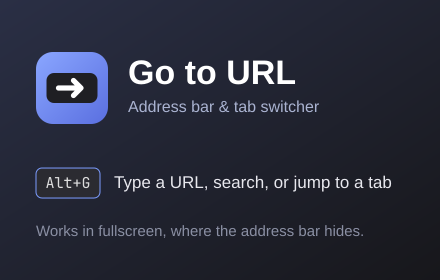
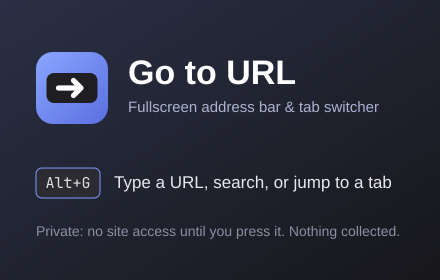
Store listing: new title, Ogilvy-style description and summary
Title is now "Go to URL: Fullscreen Address Bar & Tab Switcher". The description
lives in store/description.txt as plain text, ready to paste. The promo tile
carries the new subtitle and the privacy point.

Changed region(s): [[0.0886, 0.8, 0.9159, 0.8571], [0.2955, 0.3429, 0.8568, 0.4]]

diff --git a/store/STORE.md b/store/STORE.md
@@ -7,38 +7,15 @@ Run `./package.sh` from the repo root, then upload `dist/go-to-url-1.0.0.zip`.
 
 ## Store listing tab
 
-**Name** (taken from the manifest): Go to URL — address bar & tab switcher
+**Name** (taken from the manifest): Go to URL: Fullscreen Address Bar & Tab Switcher
 
-**Summary** (taken from the manifest): Alt+G: type a URL, search, or switch, close and reopen tabs — even in fullscreen, where the address bar is hidden.
+**Summary** (taken from the manifest): Chrome in fullscreen (F11) hides the address bar. Press Alt+G: type an address or search, switch tabs. You never leave fullscreen.
 
 **Category:** Tools (or Workflow & Planning)
 
 **Language:** English
 
-**Description:**
-
-In fullscreen, Chrome hides the address bar and the tab strip. Go to URL brings both back as one keyboard prompt, without leaving fullscreen.
-
-Press Alt+G and type:
-• An address, like example.com or localhost:3000. Enter opens it.
-• Anything else, and it's searched with your default search engine.
-• Part of a tab's title or address, and the matching tabs appear underneath.
-
-Same keys as Chrome's address bar:
-• Enter: open in this tab
-• Alt+Enter: open in a new tab
-• Shift+Enter: open in a new window
-
-Tab switcher:
-• Every tab is labeled with the Ctrl+number Chrome already uses for it (⌘ on Mac), so you learn the shortcuts as you go.
-• ↑ ↓ and Enter switch to any tab, including the ones past the 8th.
-• Del closes the selected tab. Ctrl+Z reopens it, with its history, in the same spot.
-
-Hints at the bottom of the prompt always show what Enter will do. Hold Alt or Shift to see the highlight move.
-
-You can change the Alt+G shortcut at chrome://extensions/shortcuts.
-
-Private by design: no data collection, no network requests, no analytics.
+**Description:** paste the contents of `description.txt` as is. It's plain text, which is what the store expects.
 
 **Graphic assets:**
 - Store icon: `../icons/icon128.png`
